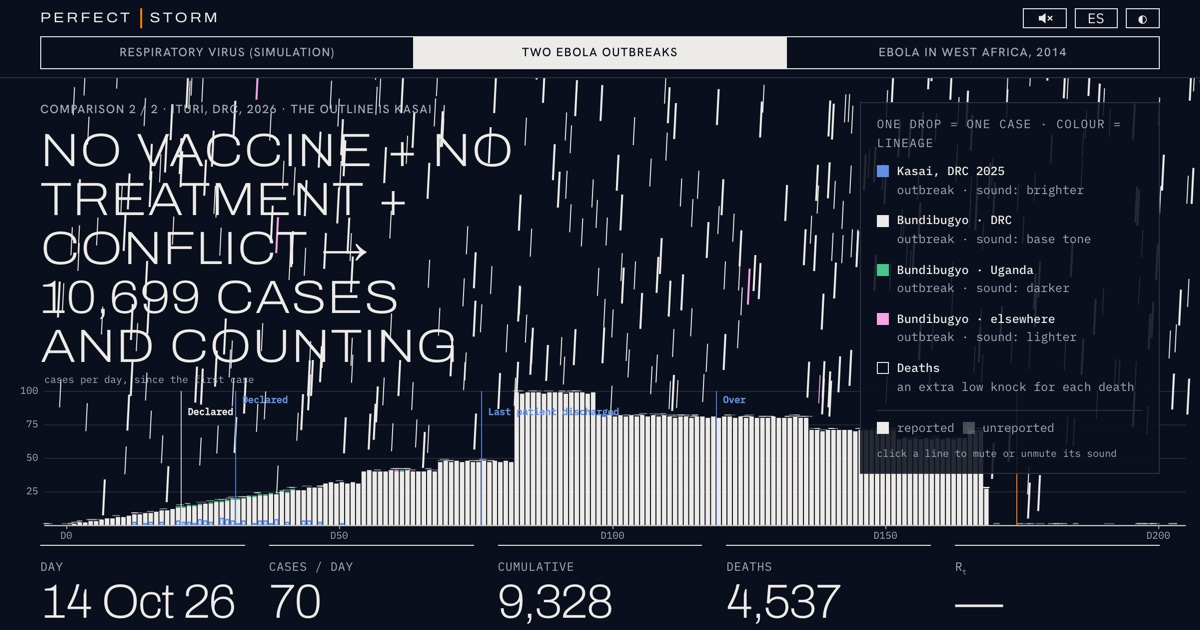
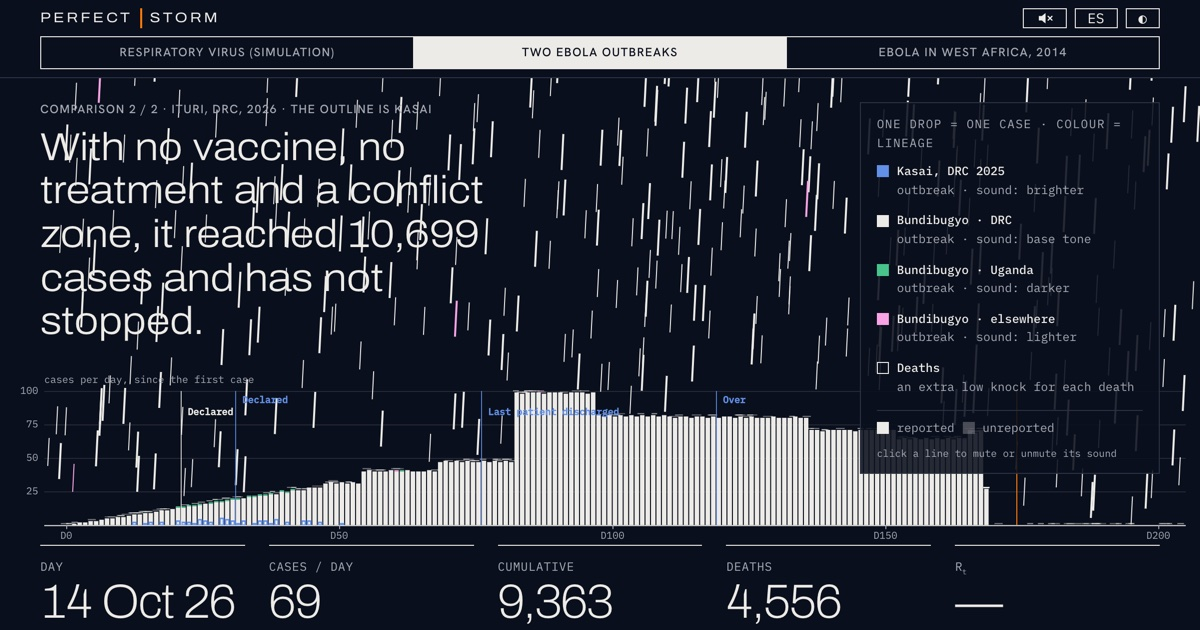
copy: Compare headlines as sentences, not formulas
"Vaccine + treatment + a remote area → 64 cases" read as a formula. Now:
  "With a vaccine, a treatment and a remote rural area, Ebola stopped at 64 cases."
  "With no vaccine, no treatment and a conflict zone, it reached 10,699 cases
   and has not stopped."
(and in Spanish). Headlines that are sentences are set in sentence case,
smaller and wider than the one-word chapter titles. Preview image regenerated.

diff --git a/src/i18n.js b/src/i18n.js
@@ -164,9 +164,9 @@ const ES = {
   "Each week's total is played back as an equal number of cases spaced evenly across the seven days.": 'El total de cada semana se reproduce como ese mismo número de casos repartidos de manera uniforme a lo largo de los siete días.',
 
   // compare
-  'Vaccine + treatment + a remote area → 64 cases': 'Vacuna + tratamiento + una zona aislada → 64 casos',
+  'With a vaccine, a treatment and a remote rural area, Ebola stopped at 64 cases.': 'Con vacuna, tratamiento y una zona rural aislada, el ébola se frenó en 64 casos.',
   'Ebola virus (Zaire species) in a hard-to-reach rural area of Kasai, DRC. 47,577 people vaccinated; patients treated with antibodies. 64 cases and 45 deaths, all in one health zone; declared over on 1 December 2025.': 'Virus del ébola (especie Zaire) en una zona rural de difícil acceso de Kasai (RDC). 47.577 personas vacunadas; pacientes tratados con anticuerpos. 64 casos y 45 muertes, todos en una sola zona de salud; brote terminado el 1 de diciembre de 2025.',
-  'No vaccine + no treatment + conflict → 10,699 cases and counting': 'Sin vacuna + sin tratamiento + conflicto → 10.699 casos y sumando',
+  'With no vaccine, no treatment and a conflict zone, it reached 10,699 cases and has not stopped.': 'Sin vacuna, sin tratamiento y en zona de conflicto, llegó a 10.699 casos y no se ha detenido.',
   'Bundibugyo virus, another ebolavirus species: no licensed vaccine or specific treatment. In Ituri, conflict and highly mobile populations hamper contact tracing. 10,699 confirmed cases and 5,202 deaths by 3 November, and still ongoing.': 'Virus Bundibugyo, otra especie de ébola: sin vacuna autorizada ni tratamiento específico. En Ituri, el conflicto y una población muy móvil dificultan el rastreo de contactos. 10.699 casos confirmados y 5.202 muertes hasta el 3 de noviembre, y sigue activo.',
   'Declared': 'Declarado',
   'Last patient discharged': 'Alta del último paciente',

diff --git a/src/styles/app.css b/src/styles/app.css
@@ -52,7 +52,11 @@ sub { font-size: .6em; }
 .stage__text .ps-label { margin: 0 0 var(--ps-space-2); grid-column: 1 / -1; }
 .stage__text .ps-display { max-width: 12ch; min-width: min-content; font-size: var(--ps-fs-chapter); }   /* a word longer than 12ch ("Confinamiento") widens the column instead of spilling over the text */
 .stage__text .lede { font-size: var(--ps-fs-chapter-body); margin: 0; padding-top: 0.35em; }
-.stage__text .ps-display.is-long { max-width: 16ch; font-size: calc(var(--ps-fs-chapter) * 0.72); }
+/* a headline that is a sentence (Compare says why) reads as one: sentence case, smaller, wider */
+.stage__text .ps-display.is-long {
+  max-width: 22ch; font-size: max(1.45rem, calc(var(--ps-fs-chapter) * 0.6));
+  text-transform: none; letter-spacing: -0.01em; line-height: 1.12; font-weight: 300;
+}
 @media (max-width: 1100px) {
   .stage__text { grid-template-columns: minmax(0, 1fr); right: var(--ps-gutter); }
   .stage__text .lede { margin-top: var(--ps-space-3); padding-top: 0; max-width: 38ch; }
